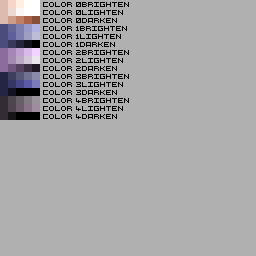
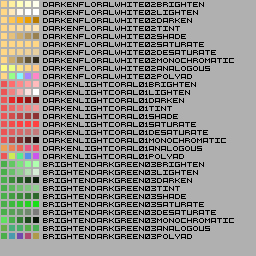
feature: add margin support for atlas generation

Changed region(s): [[0.0, 0.0, 0.9062, 0.9375]]

diff --git a/Unity/AGA/Assets/Game/ColorScheme/Palettes/Editor/ColorSchemeAtlasCreator.cs b/Unity/AGA/Assets/Game/ColorScheme/Palettes/Editor/ColorSchemeAtlasCreator.cs
@@ -21,6 +21,7 @@ namespace GameLib.ColorScheme
         public Color Background;
         public Vector2Int TextureAspects;
         public Vector2Int CellSize;
+        public Vector2Int CellMargin;
         public AtlasLayout Layout;
 
         [Button]
@@ -77,7 +78,7 @@ namespace GameLib.ColorScheme
         }
 
         #region API
-        
+
         private bool DrawCell(Texture2D texture, int cellX, int cellY, Color color)
         {
             // Calculate the pixel coordinates of the top-left corner of the cell
@@ -89,10 +90,11 @@ namespace GameLib.ColorScheme
 
 
         // Returns false if the cell is out of texture bounds
-        private bool DrawColorRect(Texture2D texture, int x, int y, Color color, int squareWidth, int squareHeight)
+        private bool DrawColorRect(Texture2D texture, int x, int y, Color color, int squareWidth, int squareHeight, bool useMargin = true)
         {
-            for (int ix = x; ix < Mathf.Min(x + squareWidth, texture.width); ix++)
-                for (int iy = y; iy < Mathf.Min(y + squareHeight, texture.height); iy++)
+            var margin = useMargin ? 1 : 0;
+            for (int ix = x + margin; ix < Mathf.Min(x + squareWidth - margin, texture.width); ix++)
+                for (int iy = y + margin; iy < Mathf.Min(y + squareHeight - margin, texture.height); iy++)
                 {
                     texture.SetPixel(ix, iy, color);
                 }
